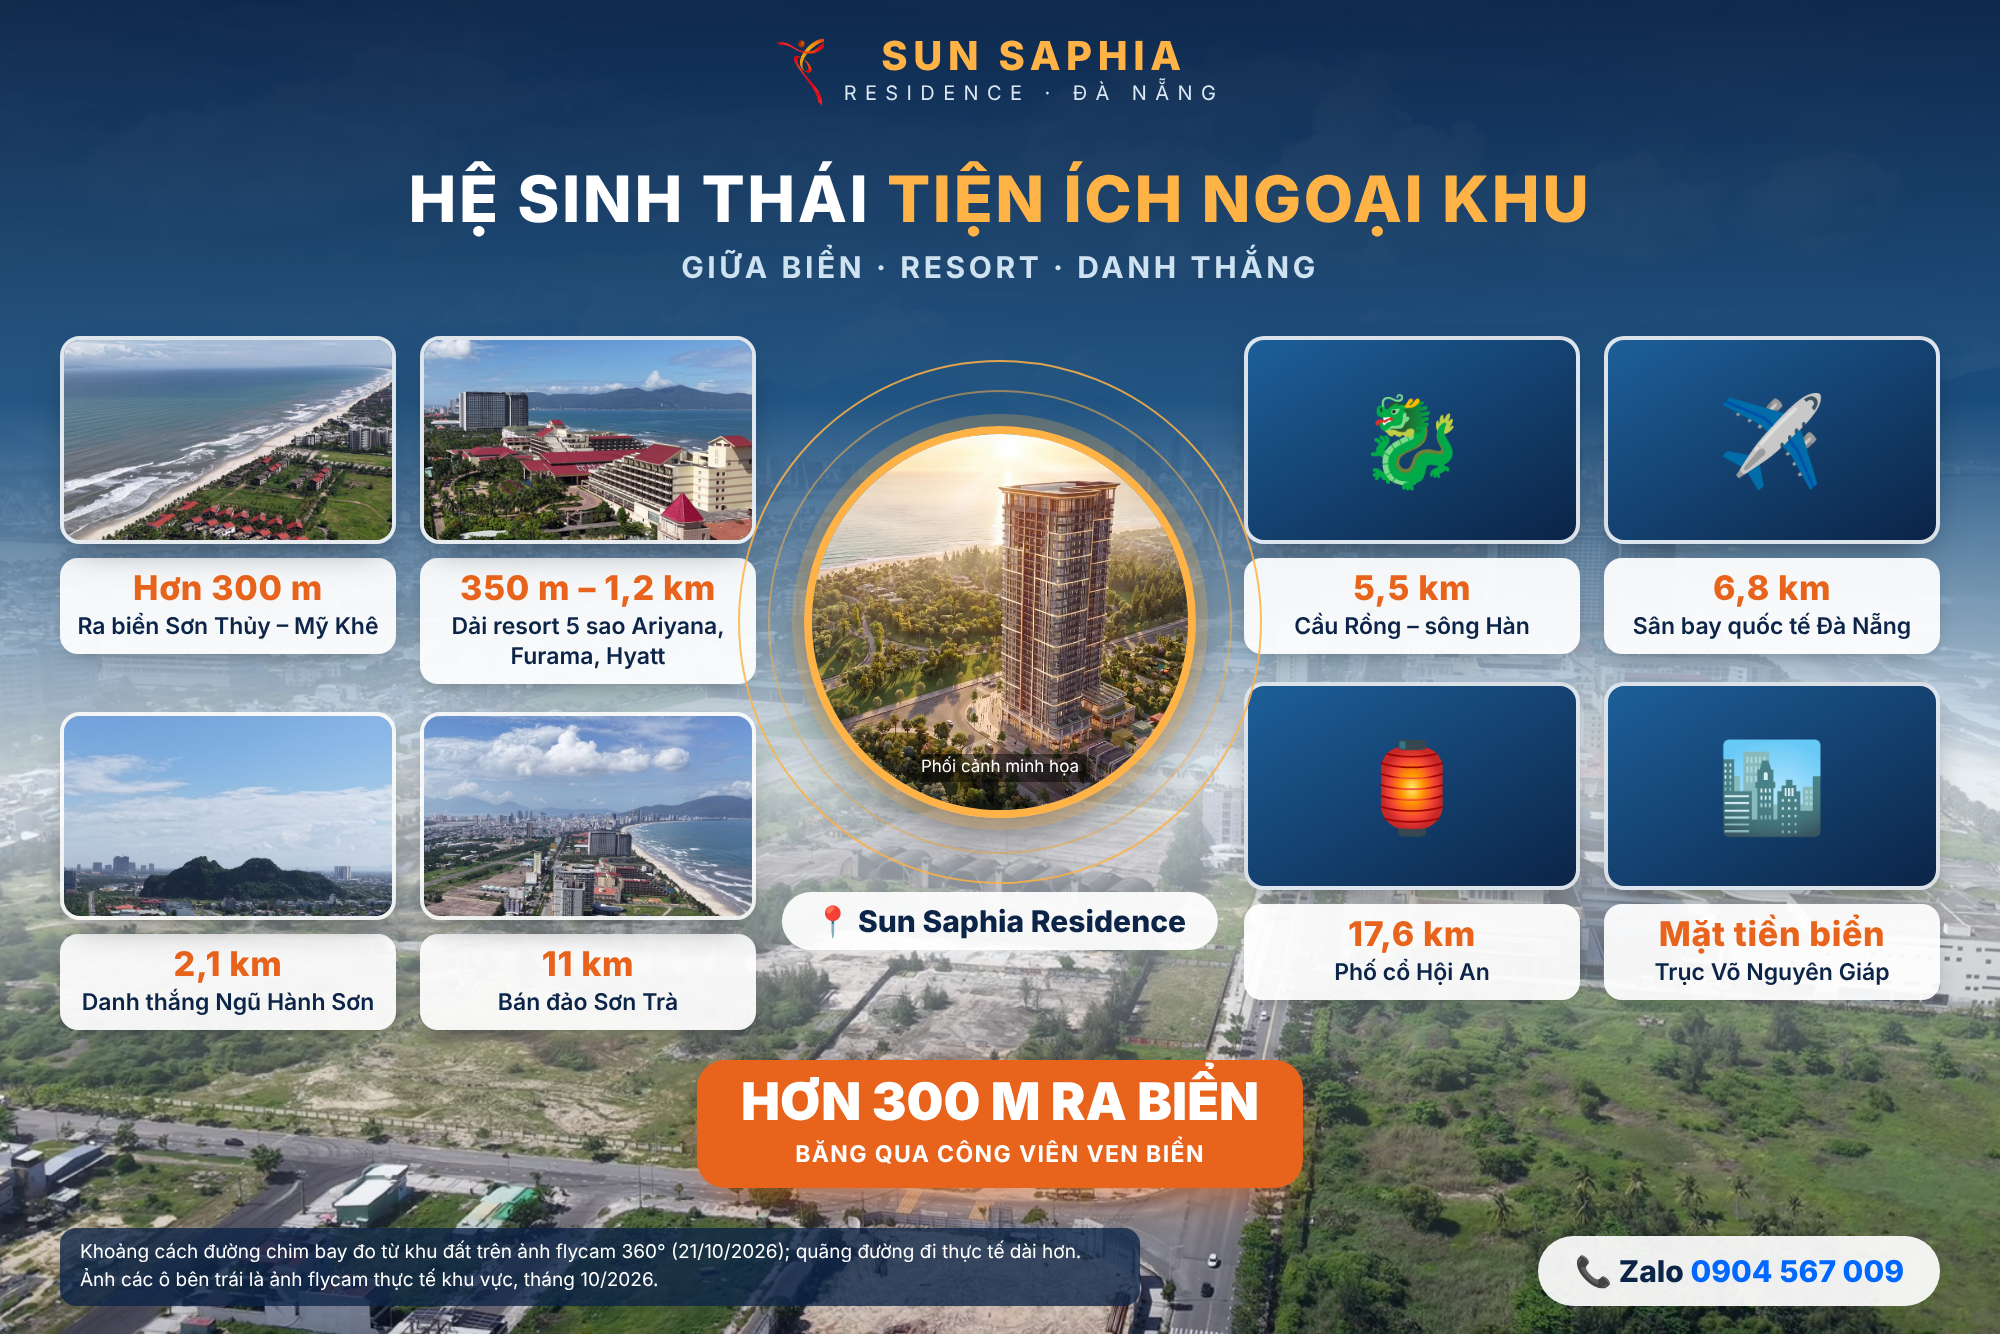
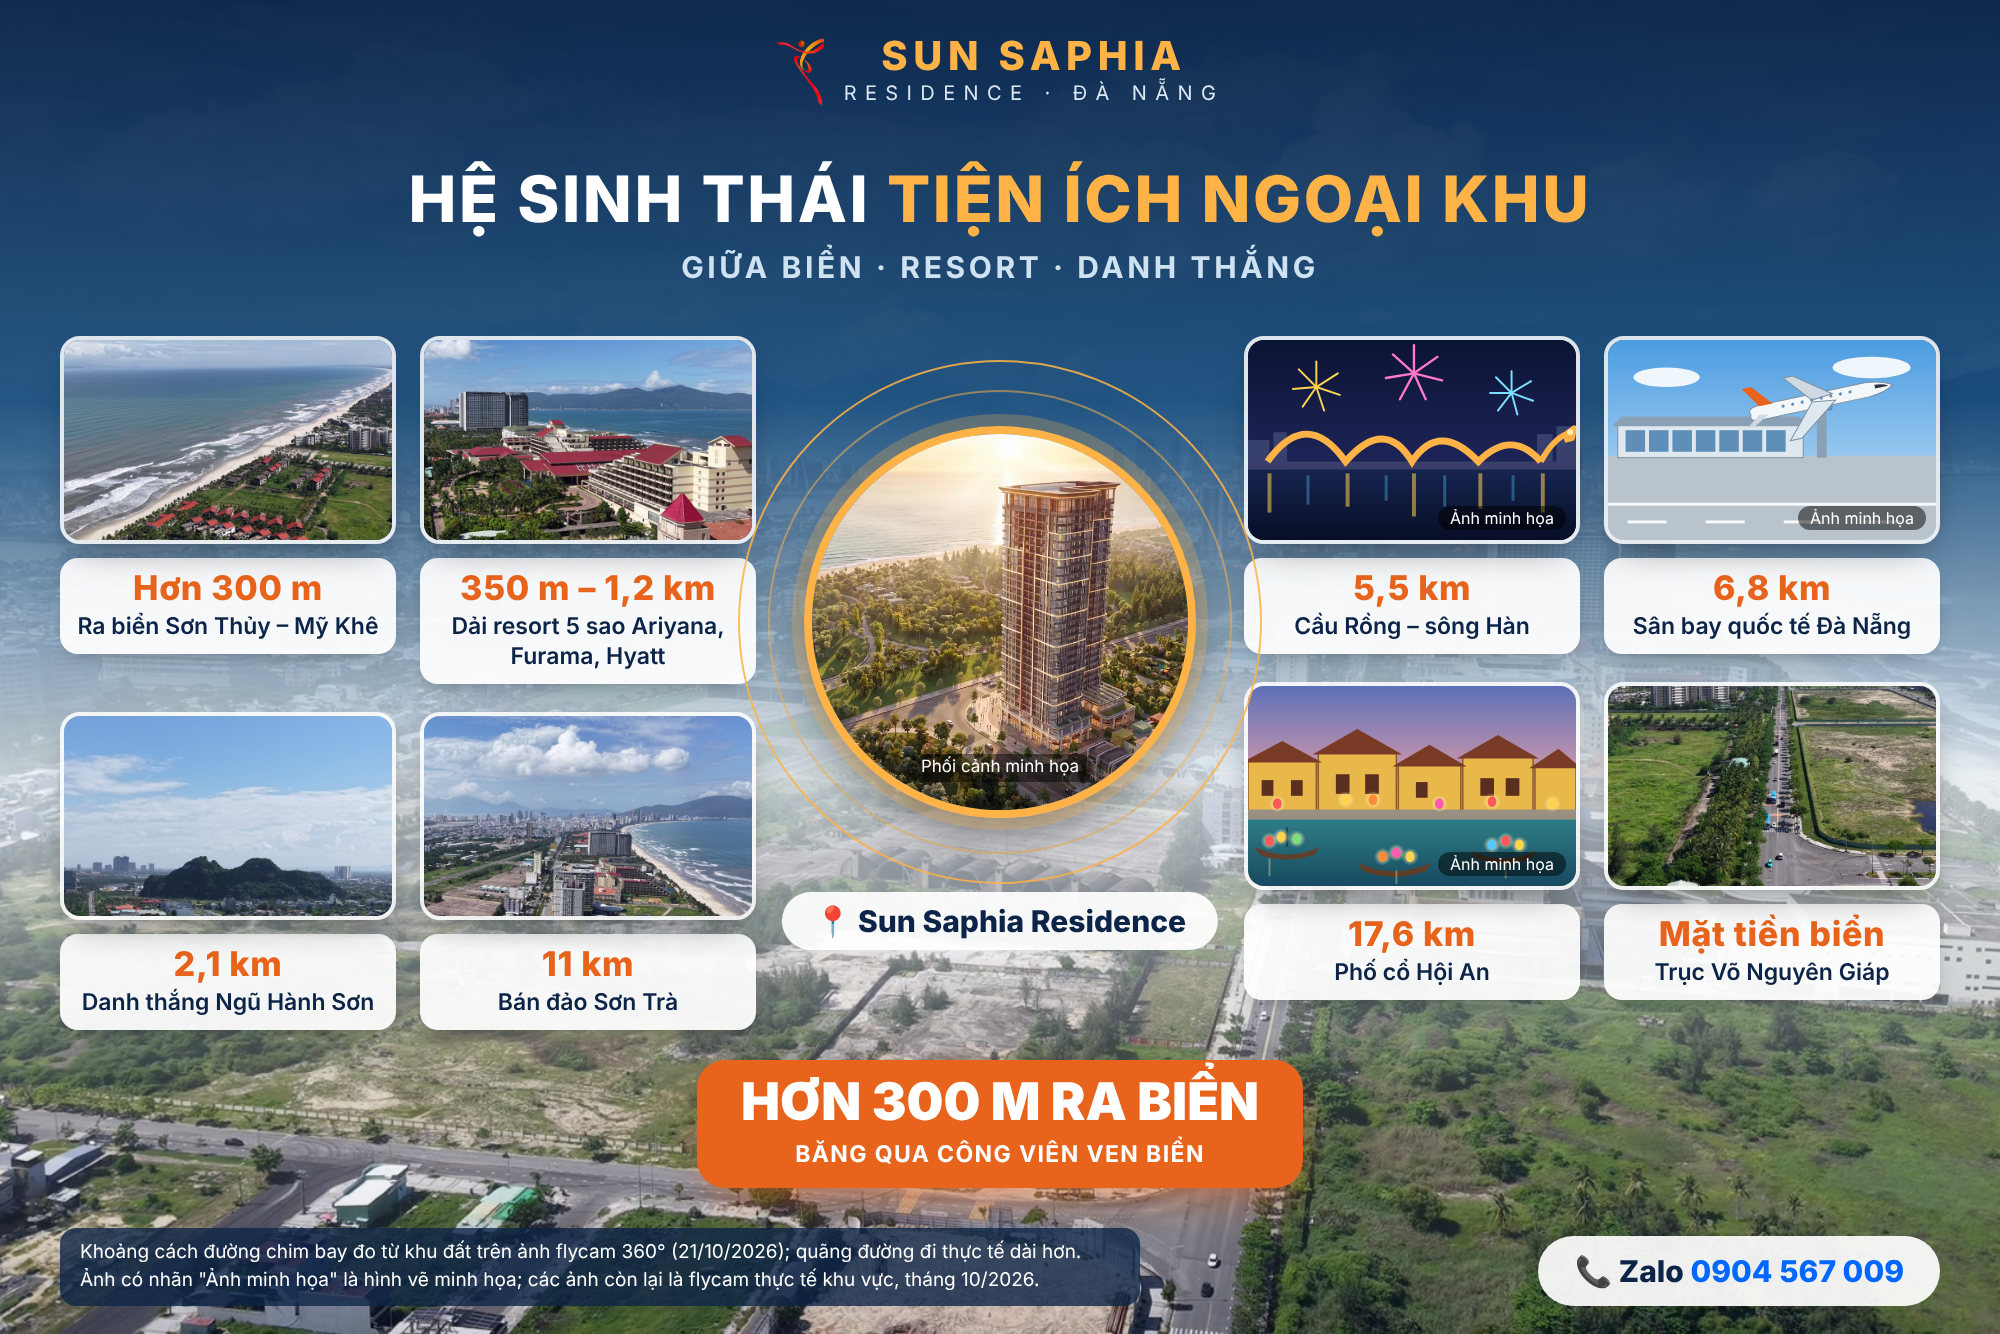
Infographic ngoại khu: ảnh minh họa tự vẽ cho cầu Rồng, sân bay, Hội An; ô mặt tiền dùng flycam thật
Claude-Session: https://claude.ai/code/session_01QqqhqeJL7dLdZQGmjqHGDV

Changed region(s): [[0.62, 0.4918, 0.992, 0.6762], [0.62, 0.2459, 0.992, 0.4303], [0.062, 0.9528, 0.527, 0.9835]]

diff --git a/social/sun-saphia/infographic/ngoai-khu.html b/social/sun-saphia/infographic/ngoai-khu.html
@@ -14,7 +14,7 @@ h1 em{font-style:normal;color:#ffb347}
 .g{position:absolute;top:168px;display:grid;grid-template-columns:repeat(2,168px);gap:14px 12px}
 .g.l{left:30px}.g.r{right:30px}
 .t{width:168px}.t .p{height:104px;border-radius:10px;overflow:hidden;box-shadow:0 8px 18px -8px rgba(0,0,0,.55);border:2px solid rgba(255,255,255,.85);position:relative}
-.t .p img{width:100%;height:100%;object-fit:cover;display:block}
+.t .p img{width:100%;height:100%;object-fit:cover;display:block}.t .p .mh{position:absolute;right:5px;bottom:5px;font-style:normal;font-size:8px;color:#fff;background:rgba(0,0,0,.5);padding:1px 6px;border-radius:99px}
 .t .ic{height:104px;border-radius:10px;border:2px solid rgba(255,255,255,.85);box-shadow:0 8px 18px -8px rgba(0,0,0,.55);background:linear-gradient(150deg,#1d5f99,#0b2447);display:grid;place-items:center;font-size:44px}
 .t .cap{margin-top:7px;text-align:center;font-size:11.5px;font-weight:600;line-height:1.3;color:#0b2447;background:rgba(255,255,255,.93);border-radius:9px;padding:5px 6px 6px;box-shadow:0 4px 12px -6px rgba(0,0,0,.45)}
 .t .cap b{display:block;font-size:17px;font-weight:800;color:#e8641c;letter-spacing:.02em}
@@ -42,14 +42,14 @@ h1 em{font-style:normal;color:#ffb347}
  <div class="t"><div class="p"><img src="anh/son-tra.jpg"></div><div class="cap"><b>11 km</b>Bán đảo Sơn Trà</div></div>
 </div>
 <div class="g r">
- <div class="t"><div class="ic">🐉</div><div class="cap"><b>5,5 km</b>Cầu Rồng – sông Hàn</div></div>
- <div class="t"><div class="ic">✈</div><div class="cap"><b>6,8 km</b>Sân bay quốc tế Đà Nẵng</div></div>
- <div class="t"><div class="ic">🏮</div><div class="cap"><b>17,6 km</b>Phố cổ Hội An</div></div>
- <div class="t"><div class="ic">🏙</div><div class="cap"><b>Mặt tiền biển</b>Trục Võ Nguyên Giáp</div></div>
+ <div class="t"><div class="p"><img src="anh/cau-rong.svg"><i class="mh">Ảnh minh họa</i></div><div class="cap"><b>5,5 km</b>Cầu Rồng – sông Hàn</div></div>
+ <div class="t"><div class="p"><img src="anh/san-bay.svg"><i class="mh">Ảnh minh họa</i></div><div class="cap"><b>6,8 km</b>Sân bay quốc tế Đà Nẵng</div></div>
+ <div class="t"><div class="p"><img src="anh/hoi-an.svg"><i class="mh">Ảnh minh họa</i></div><div class="cap"><b>17,6 km</b>Phố cổ Hội An</div></div>
+ <div class="t"><div class="p"><img src="anh/mat-tien.jpg"></div><div class="cap"><b>Mặt tiền biển</b>Trục Võ Nguyên Giáp</div></div>
 </div>
 <div class="ctr"><div class="ring" style="width:262px;height:262px"></div><div class="ring" style="width:232px;height:232px;opacity:.6"></div>
  <div class="ph"><img src="anh/phoi-canh.webp"><i>Phối cảnh minh họa</i></div></div>
 <div class="pin"><b>📍 Sun Saphia Residence</b></div>
 <div class="big"><b>HƠN 300 M RA BIỂN</b><span>BĂNG QUA CÔNG VIÊN VEN BIỂN</span></div>
-<div class="ft"><p>Khoảng cách đường chim bay đo từ khu đất trên ảnh flycam 360° (21/10/2026); quãng đường đi thực tế dài hơn. Ảnh các ô bên trái là ảnh flycam thực tế khu vực, tháng 10/2026.</p><div class="z">📞 Zalo <span>0904 567 009</span></div></div>
+<div class="ft"><p>Khoảng cách đường chim bay đo từ khu đất trên ảnh flycam 360° (21/10/2026); quãng đường đi thực tế dài hơn. Ảnh có nhãn "Ảnh minh họa" là hình vẽ minh họa; các ảnh còn lại là flycam thực tế khu vực, tháng 10/2026.</p><div class="z">📞 Zalo <span>0904 567 009</span></div></div>
 </div></body></html>
